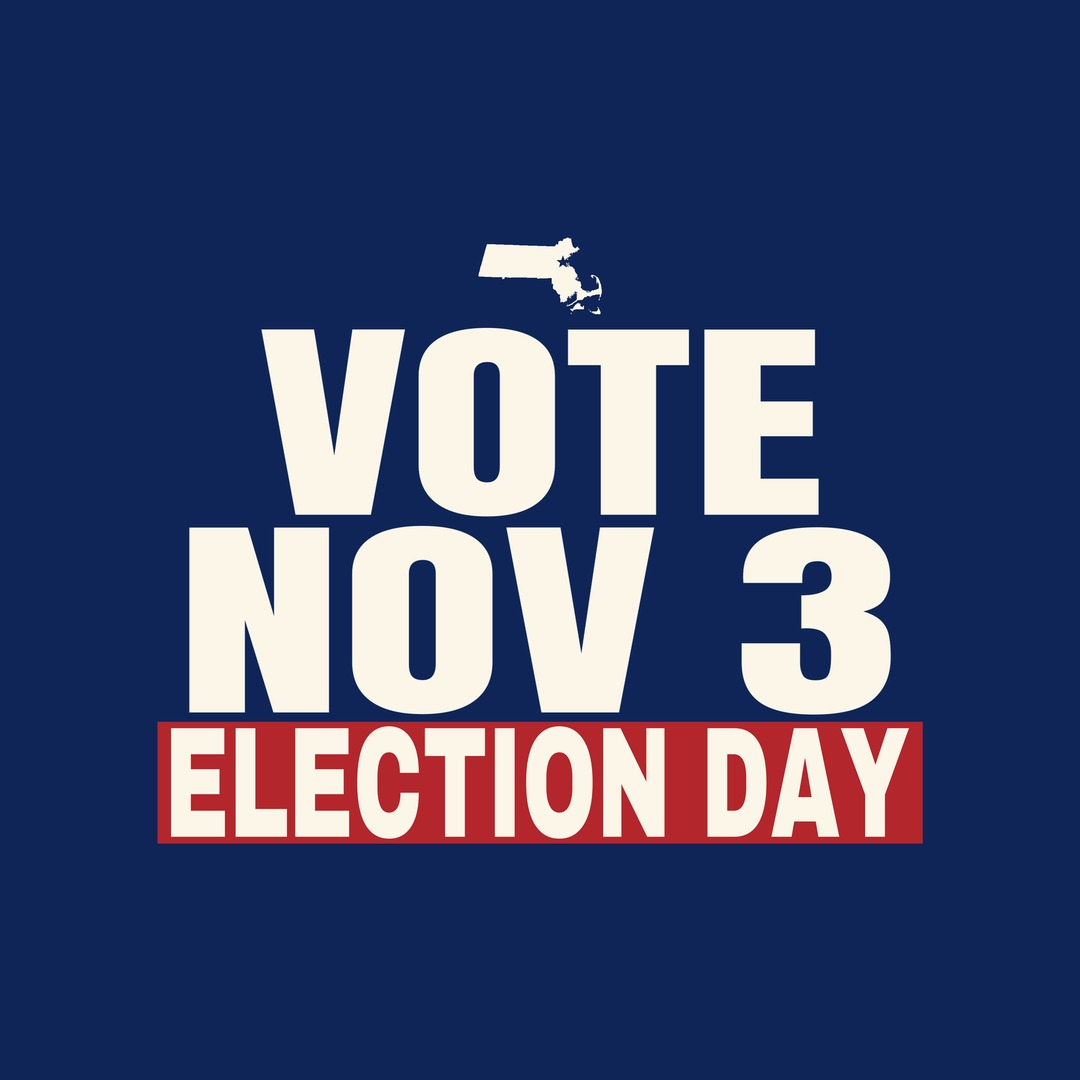
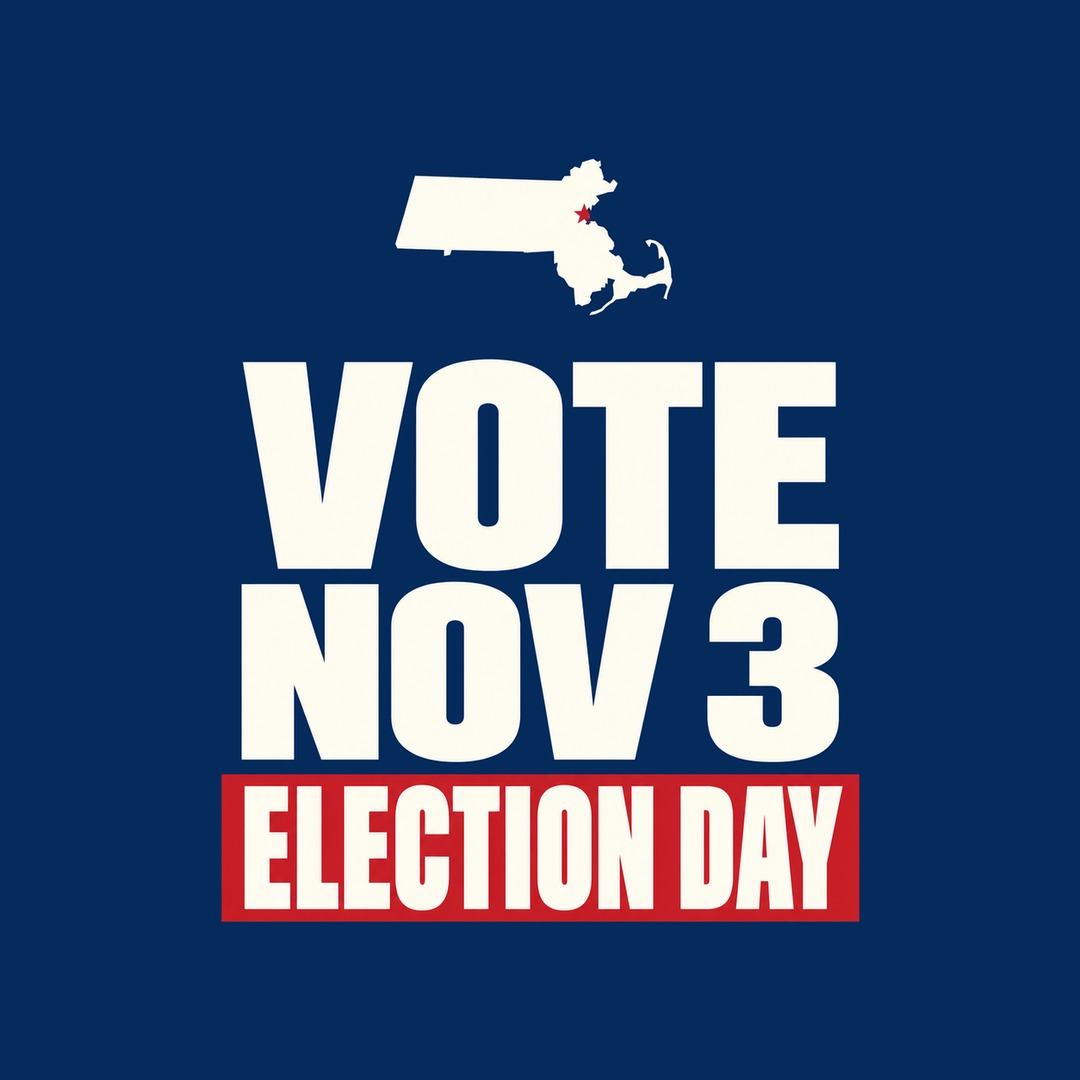
Massachusetts: 10 new ready-mades from Codex; retire the earlier set
Claude-Session: https://claude.ai/code/session_01U4jJBSt3CnGjJYrtPzNn5q

Changed region(s): [[0.1222, 0.1528, 0.8556, 0.8556]]

diff --git a/site/index.php b/site/index.php
@@ -83,7 +83,7 @@ function vote_files( $abbr ) {
 
 // The state hero shows one standout ready-made, tilted (October 20, Garrett): the design named here,
 // or the first in the set. Numbers match <abbr>-vote-N.jpg.
-const VOTE_HERO = array( 'MS' => 5, 'MI' => 7, 'ID' => 7, 'NJ' => 5, 'OR' => 5, 'MN' => 6, 'NE' => 6, 'AL' => 6, 'AZ' => 6, 'CT' => 7, 'DE' => 5, 'GA' => 5, 'FL' => 5, 'HI' => 6, 'IL' => 8, 'AR' => 6, 'IN' => 5, 'KY' => 8, 'ME' => 6, 'LA' => 6, 'IA' => 8 );
+const VOTE_HERO = array( 'MS' => 5, 'MI' => 7, 'ID' => 7, 'NJ' => 5, 'OR' => 5, 'MN' => 6, 'NE' => 6, 'AL' => 6, 'AZ' => 6, 'CT' => 7, 'DE' => 5, 'GA' => 5, 'FL' => 5, 'HI' => 6, 'IL' => 8, 'AR' => 6, 'IN' => 5, 'KY' => 8, 'ME' => 6, 'LA' => 6, 'IA' => 8, 'MA' => 5 );
 function vote_hero_file( $abbr ) {
 	$n = VOTE_HERO[ $abbr ] ?? 0;
 	$k = strtolower( $abbr );
